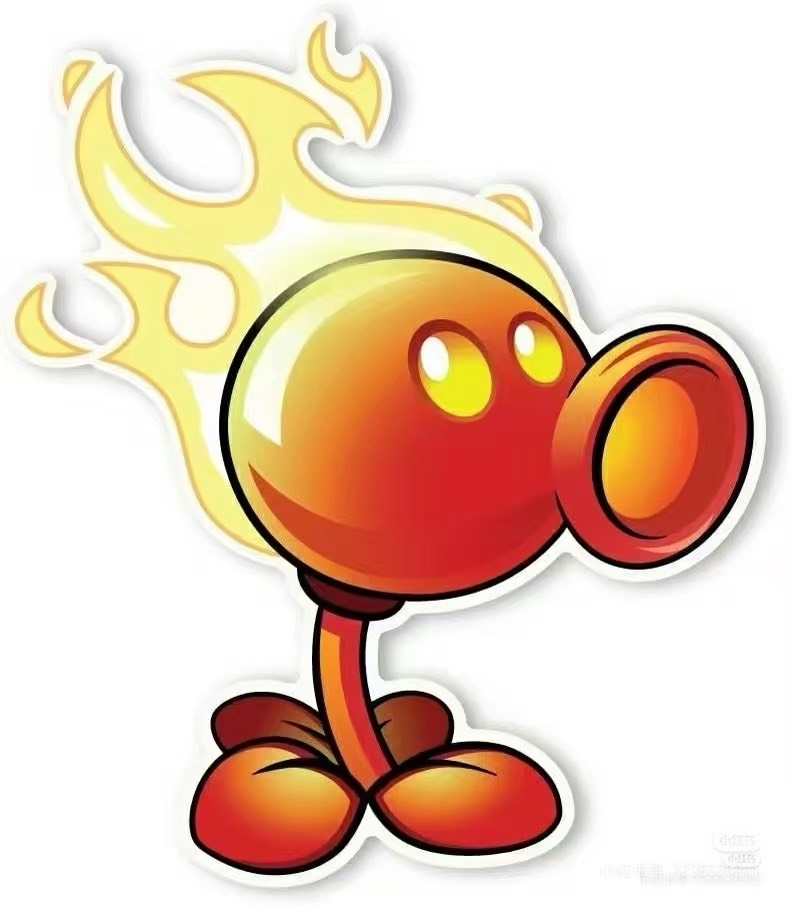
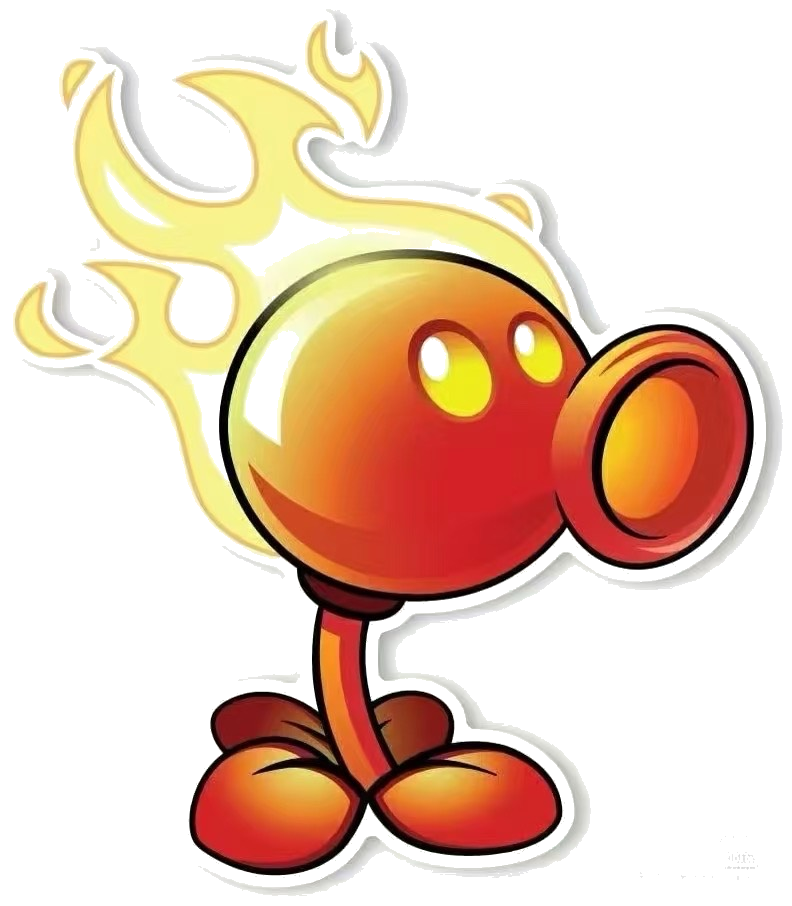
fix: 玩法介绍加关闭按钮+宠物交互数值调整+图片透明背景
- 花园/宠物玩法介绍弹窗增加关闭按钮
- 宠物交互数值调整:
  喂食: 10阳光, 饱食度+10 (原100阳光+100)
  喂水: 5阳光, 饱食度+5 (原50阳光+50)
  抚摸: 10阳光, 亲密度+10 (原50阳光+50)
  遛宠: 10阳光, 亲密度+10 (原100阳光+100)
- 所有植物/僵尸PNG图片白色背景转为透明

diff --git a/index.html b/index.html
@@ -336,7 +336,7 @@ const Store = {
     if(!c.garden.grid||c.garden.grid.length!==5) c.garden.grid=this.emptyGrid();
     if(!c.garden.zombies) c.garden.zombies=[];
     // 为已有僵尸补充图片字段（兼容旧数据）
-    c.garden.zombies.forEach(z=>{if(!z.img)z.img='images/zombie.png';});
+    c.garden.zombies.forEach(z=>{z.img='images/zombie.png?v=2';});
     if(c.garden.zombies.length===0&&d_settings().zombieEnabled) c.garden.zombies.push(this.newZombie());
     if(!c.pets) c.pets=[];
     if(!c.achievements) c.achievements=[];
@@ -350,7 +350,7 @@ const Store = {
     if(!c.undoCount) c.undoCount=0;
   },
   emptyGrid(){const g=[];for(let r=0;r<5;r++){g.push(new Array(9).fill(null));}return g;},
-  newZombie(){return{id:uid(),hp:100,maxHp:100,pos:4,img:'images/zombie.png',intro:'普通僵尸：行动缓慢，喜欢啃食植物。'};},
+  newZombie(){return{id:uid(),hp:100,maxHp:100,pos:4,img:'images/zombie.png?v=2',intro:'普通僵尸：行动缓慢，喜欢啃食植物。'};},
   defaultData(){
     const childId='c_'+uid();
     return{
@@ -779,11 +779,11 @@ const Garden = {
     return{
       sunflower:{name:'向日葵',emoji:'🌻',cost:50,produce:5,attack:0,desc:'每日产出5阳光'},
       sunshroom:{name:'阳光菇',emoji:'🍄',cost:25,produce:2,attack:0,desc:'每日产出2阳光'},
-      peashooter:{name:'豌豆射手',emoji:'🟢',img:'images/peashooter.png',cost:100,produce:0,attack:10,desc:'每日攻击僵尸10血'},
-      snowpea:{name:'寒冰射手',emoji:'💙',img:'images/snowpea.png',cost:175,produce:0,attack:15,desc:'每日攻击僵尸15血'},
-      firepea:{name:'火焰豌豆',emoji:'🔥',img:'images/firepea.png',cost:200,produce:0,attack:20,desc:'每日攻击僵尸20血'},
-      cherrybomb:{name:'樱桃炸弹',emoji:'🍒',img:'images/cherrybomb.png',cost:150,produce:0,attack:25,desc:'每日攻击僵尸25血'},
-      wallnut:{name:'坚果墙',emoji:'🥜',img:'images/wallnut.png',cost:50,produce:0,attack:0,block:true,desc:'阻挡僵尸前进1天'}
+      peashooter:{name:'豌豆射手',emoji:'🟢',img:'images/peashooter.png?v=2',cost:100,produce:0,attack:10,desc:'每日攻击僵尸10血'},
+      snowpea:{name:'寒冰射手',emoji:'💙',img:'images/snowpea.png?v=2',cost:175,produce:0,attack:15,desc:'每日攻击僵尸15血'},
+      firepea:{name:'火焰豌豆',emoji:'🔥',img:'images/firepea.png?v=2',cost:200,produce:0,attack:20,desc:'每日攻击僵尸20血'},
+      cherrybomb:{name:'樱桃炸弹',emoji:'🍒',img:'images/cherrybomb.png?v=2',cost:150,produce:0,attack:25,desc:'每日攻击僵尸25血'},
+      wallnut:{name:'坚果墙',emoji:'🥜',img:'images/wallnut.png?v=2',cost:50,produce:0,attack:0,block:true,desc:'阻挡僵尸前进1天'}
     };
   },
   plantList(){return Store.data.plantDefs;},
@@ -916,17 +916,17 @@ const Pet = {
     return'';
   },
   feed(petId){const c=curChild();const p=c.pets.find(x=>x.id===petId);if(!p||p.status==='dead')return;const def=this.list()[p.type];
-    if(!spendSunlight(100,'喂食'+p.name))return;
-    p.satiety=clamp(p.satiety+100,0,200);p.lastFeedAt=Date.now();this.updateStatus(p);Log.pet('喂食',p.id,'饱食+100');Audio.play('pet');Store.save();UI.render();},
+    if(!spendSunlight(10,'喂食'+p.name))return;
+    p.satiety=clamp(p.satiety+10,0,200);p.lastFeedAt=Date.now();this.updateStatus(p);Log.pet('喂食',p.id,'饱食+10');Audio.play('pet');Store.save();UI.render();},
   water(petId){const c=curChild();const p=c.pets.find(x=>x.id===petId);if(!p||p.status==='dead')return;
-    if(!spendSunlight(50,'喂水'+p.name))return;
-    p.satiety=clamp(p.satiety+50,0,200);p.lastFeedAt=Date.now();this.updateStatus(p);Log.pet('喂水',p.id,'饱食+50');Audio.play('pet');Store.save();UI.render();},
+    if(!spendSunlight(5,'喂水'+p.name))return;
+    p.satiety=clamp(p.satiety+5,0,200);p.lastFeedAt=Date.now();this.updateStatus(p);Log.pet('喂水',p.id,'饱食+5');Audio.play('pet');Store.save();UI.render();},
   touch(petId){const c=curChild();const p=c.pets.find(x=>x.id===petId);if(!p||p.status==='dead')return;
-    if(!spendSunlight(50,'抚摸'+p.name))return;
-    p.intimacy=clamp(p.intimacy+50,0,200);p.lastTouchAt=Date.now();this.updateStatus(p);Log.pet('抚摸',p.id,'亲密+50');Audio.play('pet');Store.save();UI.render();},
+    if(!spendSunlight(10,'抚摸'+p.name))return;
+    p.intimacy=clamp(p.intimacy+10,0,200);p.lastTouchAt=Date.now();this.updateStatus(p);Log.pet('抚摸',p.id,'亲密+10');Audio.play('pet');Store.save();UI.render();},
   walk(petId){const c=curChild();const p=c.pets.find(x=>x.id===petId);if(!p||p.status==='dead')return;
-    if(!spendSunlight(100,'遛宠'+p.name))return;
-    p.intimacy=clamp(p.intimacy+100,0,200);p.lastTouchAt=Date.now();this.updateStatus(p);Log.pet('遛宠',p.id,'亲密+100');Audio.play('pet');Store.save();UI.render();},
+    if(!spendSunlight(10,'遛宠'+p.name))return;
+    p.intimacy=clamp(p.intimacy+10,0,200);p.lastTouchAt=Date.now();this.updateStatus(p);Log.pet('遛宠',p.id,'亲密+10');Audio.play('pet');Store.save();UI.render();},
   heal(petId){const c=curChild();const p=c.pets.find(x=>x.id===petId);if(!p||p.status==='dead')return;
     const cost=this._healCost||150;
     if(!spendSunlight(cost,'治疗'+p.name))return;
@@ -1711,7 +1711,7 @@ const UI = {
         <li>所有植物攻击伤害可叠加</li>
         <li>每日凌晨统一结算产出与伤害</li>
       </ul>
-    </div>`,null,true);
+    </div>`,`<button class="btn sm" onclick="closeModal()">明白了</button>`,false);
   },
   curTip:null,
   cellTip(r,col,e){
@@ -1817,10 +1817,10 @@ const UI = {
       ${p.status==='sick'?'<div style="color:var(--danger);font-size:12px;text-align:center;">⚠ 宠物生病了，需要治疗！</div>':''}
       ${p.satiety<50&&p.status!=='dead'?'<div style="color:var(--orange-d);font-size:12px;text-align:center;">饥饿提示：请尽快喂食</div>':''}
       <div style="display:flex;flex-wrap:wrap;gap:4px;justify-content:center;">
-        <button class="btn orange sm" onclick="Pet.feed('${p.id}')">喂食100</button>
-        <button class="btn sky sm" onclick="Pet.water('${p.id}')">喂水50</button>
-        <button class="btn pink sm" onclick="Pet.touch('${p.id}')">抚摸50</button>
-        <button class="btn sm" onclick="Pet.walk('${p.id}')">遛宠100</button>
+        <button class="btn orange sm" onclick="Pet.feed('${p.id}')">喂食10</button>
+        <button class="btn sky sm" onclick="Pet.water('${p.id}')">喂水5</button>
+        <button class="btn pink sm" onclick="Pet.touch('${p.id}')">抚摸10</button>
+        <button class="btn sm" onclick="Pet.walk('${p.id}')">遛宠10</button>
         ${p.status==='sick'?'<button class="btn danger sm" onclick="Pet.heal(\''+p.id+'\')">治疗'+(Pet._healCost||150)+'</button>':''}
       </div></div>`;
     }).join(''):'<div style="text-align:center;color:var(--text-light);padding:20px;">还没有宠物，快去购买一只吧！🐾</div>';
@@ -1844,10 +1844,10 @@ const UI = {
       </ul>
       <h4 style="color:var(--primary-d);margin:12px 0 6px;">🍖 4 种互动</h4>
       <ul style="padding-left:18px;font-size:12px;">
-        <li>🍖 <b>喂食</b>（100☀）饱食度 +100</li>
-        <li>💧 <b>喂水</b>（50☀）饱食度 +50</li>
-        <li>🤗 <b>抚摸</b>（50☀）亲密度 +50</li>
-        <li>🦮 <b>遛宠</b>（100☀）亲密度 +100</li>
+        <li>🍖 <b>喂食</b>（10☀）饱食度 +10</li>
+        <li>💧 <b>喂水</b>（5☀）饱食度 +5</li>
+        <li>🤗 <b>抚摸</b>（10☀）亲密度 +10</li>
+        <li>🦮 <b>遛宠</b>（10☀）亲密度 +10</li>
       </ul>
       <h4 style="color:var(--primary-d);margin:12px 0 6px;">⚠ 状态机制</h4>
       <ul style="padding-left:18px;font-size:12px;">
@@ -1858,7 +1858,7 @@ const UI = {
       </ul>
       <h4 style="color:var(--primary-d);margin:12px 0 6px;">✏ 命名规则</h4>
       <p style="font-size:12px;">购买后自动弹命名框，宠物家园点击名字可改名。最多 8 个汉字或字母数字 12 个，禁止特殊符号。</p>
-    </div>`,null,true);
+    </div>`,`<button class="btn sm" onclick="closeModal()">明白了</button>`,false);
   },
   renderShop(){
     const c=curChild();
